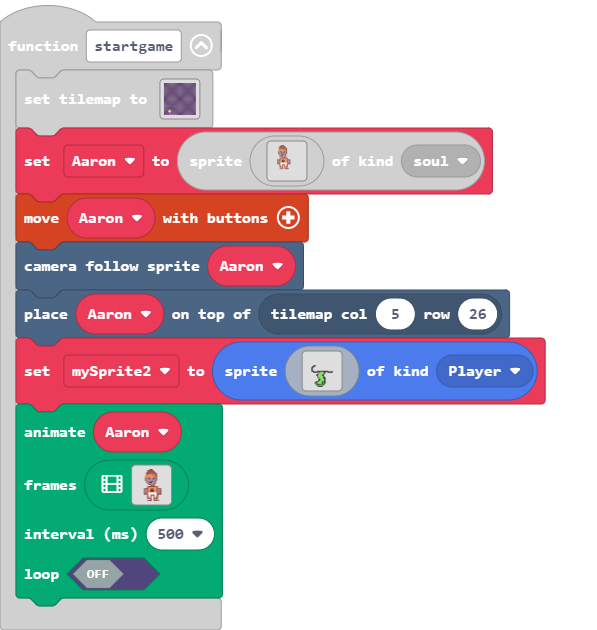
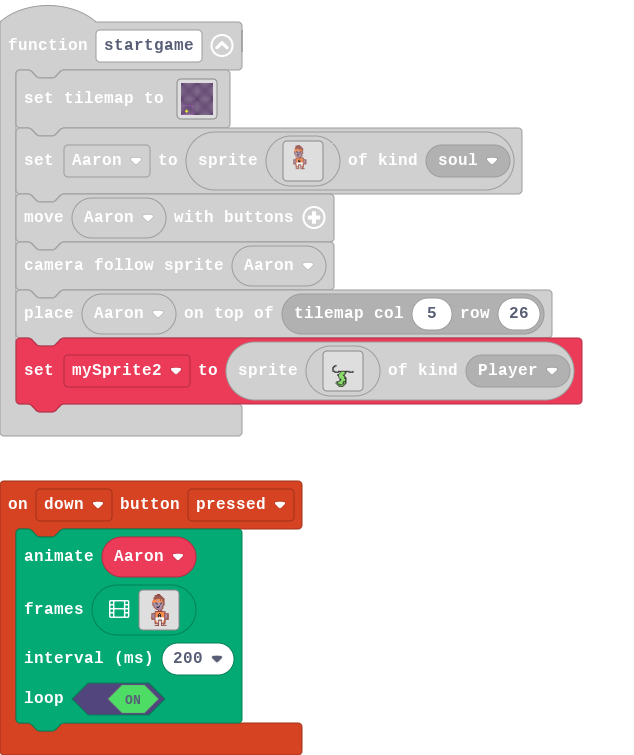
Update main.blocks, main.ts, images.g.jres, images.g.ts

diff --git a/main.ts b/main.ts
@@ -2,6 +2,138 @@ namespace SpriteKind {
     export const button = SpriteKind.create()
     export const soul = SpriteKind.create()
 }
+controller.down.onEvent(ControllerButtonEvent.Pressed, function () {
+    animation.runImageAnimation(
+    Aaron,
+    [img`
+        .............eee..............
+        ...........eeeeee.............
+        ...........eeeeeee............
+        ..........eeeeeeeee...........
+        ..........eeeeeeeeee..........
+        ..........4e4444e4ee..........
+        .........4444bb4e4ee..........
+        .........4444444444e..........
+        .........ebbfbbbbfbe..........
+        .........ebbbfbbfbbe..........
+        .........ebbbbbbbbbe..........
+        ..........ebbbbfbbe...........
+        ..........ebbffbbbe...........
+        ...........ebbbbbbe...........
+        ............eebbbe............
+        ..............ebee............
+        ...........eeeeeeeeee.........
+        ...........e44444444e.........
+        ........eeee444f4444eeee......
+        ........ebbe44f4f444ebbe......
+        ........ebbe44fff444ebbe......
+        ........ebbe44f4f444ebbe......
+        ........ebbe11111111ebbe......
+        ........eeee11111111eeee......
+        ...........e11eeee11e.........
+        ...........e41e..e14e.........
+        ...........e41e..e14e.........
+        ...........eeee..eeee.........
+        .............de..ede..........
+        ...........eeee..eeeee........
+        `,img`
+        .............eee..............
+        ...........eeeeee.............
+        ...........eeeeeee............
+        ..........eeeeeeeee...........
+        ..........eeeeeeeeee..........
+        ..........4e4444e4ee..........
+        .........4444bb4e4ee..........
+        .........4444444444e..........
+        .........ebbfbbbbfbe..........
+        .........ebbbfbbfbbe..........
+        .........ebbbbbbbbbe..........
+        ..........ebbbbfbbe...........
+        ..........ebbffbbbe...........
+        ...........ebbbbbbe...........
+        ............eebbbe............
+        ..............ebee............
+        ...........eeeeeeeeee.........
+        ...........e44444444e.........
+        ........eeee444f4444eeee......
+        ........ebbe44f4f444ebbe......
+        ........ebbe44fff444ebbe......
+        ........ebbe44f4f444eeee......
+        ........ebbe11111111e.........
+        ........eeee11111111e.........
+        ...........e11eeee11e.........
+        ...........e41e..e14e.........
+        ...........e41e..e14e.........
+        ...........eeee..eeee.........
+        .............de..ede..........
+        ...........eeee..eeeee........
+        `,img`
+        .............eee..............
+        ...........eeeeee.............
+        ...........eeeeeee............
+        ..........eeeeeeeee...........
+        ..........eeeeeeeeee..........
+        ..........4e4444e4ee..........
+        .........4444bb4e4ee..........
+        .........4444444444e..........
+        .........ebbfbbbbfbe..........
+        .........ebbbfbbfbbe..........
+        .........ebbbbbbbbbe..........
+        ..........ebbbbfbbe...........
+        ..........ebbffbbbe...........
+        ...........ebbbbbbe...........
+        ............eebbbe............
+        ..............ebee............
+        ...........eeeeeeeeee.........
+        ...........e44444444e.........
+        ........eeee444f4444eeee......
+        ........ebbe44f4f444ebbe......
+        ........ebbe44fff444ebbe......
+        ........ebbe44f4f444ebbe......
+        ........ebbe11111111ebbe......
+        ........eeee11111111eeee......
+        ...........e11eeee11e.........
+        ...........e41e..e14e.........
+        ...........e41e..e14e.........
+        ...........eeee..eeee.........
+        .............de..ede..........
+        ...........eeee..eeeee........
+        `,img`
+        .............eee..............
+        ...........eeeeee.............
+        ...........eeeeeee............
+        ..........eeeeeeeee...........
+        ..........eeeeeeeeee..........
+        ..........4e4444e4ee..........
+        .........4444bb4e4ee..........
+        .........4444444444e..........
+        .........ebbfbbbbfbe..........
+        .........ebbbfbbfbbe..........
+        .........ebbbbbbbbbe..........
+        ..........ebbbbfbbe...........
+        ..........ebbffbbbe...........
+        ...........ebbbbbbe...........
+        ............eebbbe............
+        ..............ebee............
+        ...........eeeeeeeeee.........
+        ...........e44444444e.........
+        ........eeee444f4444eeee......
+        ........ebbe44f4f444ebbe......
+        ........ebbe44fff444ebbe......
+        ........eeee44f4f444ebbe......
+        ...........e11111111ebbe......
+        ...........e11111111eeee......
+        ...........e11eeee11e.........
+        ...........e41e..e14e.........
+        ...........e41e..e14e.........
+        ...........eeee..eeee.........
+        .............de..ede..........
+        ...........eeee..eeeee........
+        `],
+    200,
+    true
+    )
+})
 function Level () {
     if (level == 0) {
         scene.setBackgroundImage(img`
@@ -380,105 +512,6 @@ function startgame () {
         ..............f77777f...................
         ...............fffff....................
         `, SpriteKind.Player)
-    animation.runImageAnimation(
-    Aaron,
-    [img`
-        .............eee..............
-        ...........eeeeee.............
-        ...........eeeeeee............
-        ..........eeeeeeeee...........
-        ..........eeeeeeeeee..........
-        ..........4e4444e4ee..........
-        .........4444bb4e4ee..........
-        .........4444444444e..........
-        .........ebbfbbbbfbe..........
-        .........ebbbfbbfbbe..........
-        .........ebbbbbbbbbe..........
-        ..........ebbbbfbbe...........
-        ..........ebbffbbbe...........
-        ...........ebbbbbbe...........
-        ............eebbbe............
-        ..............ebee............
-        ...........eeeeeeeeee.........
-        ...........e44444444e.........
-        ........eeee444f4444eeee......
-        ........ebbe44f4f444ebbe......
-        ........ebbe44fff444ebbe......
-        ........ebbe44f4f444ebbe......
-        ........ebbe11111111ebbe......
-        ........eeee11111111eeee......
-        ...........e11eeee11e.........
-        ...........e41e..e14e.........
-        ...........e41e..e14e.........
-        ...........eeee..eeee.........
-        .............de..ede..........
-        ...........eeee..eeeee........
-        `,img`
-        .............eee..............
-        ...........eeeeee.............
-        ...........eeeeeee............
-        ..........eeeeeeeee...........
-        ..........eeeeeeeeee..........
-        ..........4e4444e4ee..........
-        .........4444bb4e4ee..........
-        .........4444444444e..........
-        .........ebbfbbbbfbe..........
-        .........ebbbfbbfbbe..........
-        .........ebbbbbbbbbe..........
-        ..........ebbbbfbbe...........
-        ..........ebbffbbbe...........
-        ...........ebbbbbbe...........
-        ............eebbbe............
-        ..............ebee............
-        ...........eeeeeeeeee.........
-        ...........e44444444e.........
-        ........eeee444f4444eeee......
-        ........ebbe44f4f444ebbe......
-        ........ebbe44fff444ebbe......
-        ........eeee44f4f444ebbe......
-        ...........e11111111ebbe......
-        ...........e11111111eeee......
-        ...........e11eeee11e.........
-        ...........e41e..e14e.........
-        ...........e41e..e14e.........
-        ...........eeee..eeee.........
-        .............de..ede..........
-        ...........eeee..eeeee........
-        `,img`
-        .............eee..............
-        ...........eeeeee.............
-        ...........eeeeeee............
-        ..........eeeeeeeee...........
-        ..........eeeeeeeeee..........
-        ..........4e4444e4ee..........
-        .........4444bb4e4ee..........
-        .........4444444444e..........
-        .........ebbfbbbbfbe..........
-        .........ebbbfbbfbbe..........
-        .........ebbbbbbbbbe..........
-        ..........ebbbbfbbe...........
-        ..........ebbffbbbe...........
-        ...........ebbbbbbe...........
-        ............eebbbe............
-        ..............ebee............
-        ...........eeeeeeeeee.........
-        ...........e44444444e.........
-        ........eeee444f4444eeee......
-        ........ebbe44f4f444ebbe......
-        ........ebbe44fff444ebbe......
-        ........ebbe44f4f444eeee......
-        ........ebbe11111111e.........
-        ........eeee11111111e.........
-        ...........e11eeee11e.........
-        ...........e41e..e14e.........
-        ...........e41e..e14e.........
-        ...........eeee..eeee.........
-        .............de..ede..........
-        ...........eeee..eeeee........
-        `],
-    500,
-    false
-    )
 }
 sprites.onOverlap(SpriteKind.Player, SpriteKind.button, function (sprite, otherSprite) {
     let othersprite = false
@@ -488,9 +521,9 @@ sprites.onOverlap(SpriteKind.Player, SpriteKind.button, function (sprite, otherS
     }
 })
 let mySprite2: Sprite = null
-let Aaron: Sprite = null
 let cursor: Sprite = null
 let play: Sprite = null
+let Aaron: Sprite = null
 let level = 0
 level = 0
 Level()

diff --git a/images.g.ts b/images.g.ts
@@ -461,9 +461,9 @@ ffffffffffffffffffffffffffffffffffffffffffffffffffffffffffffffffffffffffffffffff
 ........eeee444f4444eeee......
 ........ebbe44f4f444ebbe......
 ........ebbe44fff444ebbe......
-........eeee44f4f444ebbe......
-...........e11111111ebbe......
-...........e11111111eeee......
+........ebbe44f4f444eeee......
+........ebbe11111111e.........
+........eeee11111111e.........
 ...........e11eeee11e.........
 ...........e41e..e14e.........
 ...........e41e..e14e.........
@@ -492,9 +492,40 @@ ffffffffffffffffffffffffffffffffffffffffffffffffffffffffffffffffffffffffffffffff
 ........eeee444f4444eeee......
 ........ebbe44f4f444ebbe......
 ........ebbe44fff444ebbe......
-........ebbe44f4f444eeee......
-........ebbe11111111e.........
-........eeee11111111e.........
+........ebbe44f4f444ebbe......
+........ebbe11111111ebbe......
+........eeee11111111eeee......
+...........e11eeee11e.........
+...........e41e..e14e.........
+...........e41e..e14e.........
+...........eeee..eeee.........
+.............de..ede..........
+...........eeee..eeeee........
+`, img`
+.............eee..............
+...........eeeeee.............
+...........eeeeeee............
+..........eeeeeeeee...........
+..........eeeeeeeeee..........
+..........4e4444e4ee..........
+.........4444bb4e4ee..........
+.........4444444444e..........
+.........ebbfbbbbfbe..........
+.........ebbbfbbfbbe..........
+.........ebbbbbbbbbe..........
+..........ebbbbfbbe...........
+..........ebbffbbbe...........
+...........ebbbbbbe...........
+............eebbbe............
+..............ebee............
+...........eeeeeeeeee.........
+...........e44444444e.........
+........eeee444f4444eeee......
+........ebbe44f4f444ebbe......
+........ebbe44fff444ebbe......
+........eeee44f4f444ebbe......
+...........e11111111ebbe......
+...........e11111111eeee......
 ...........e11eeee11e.........
 ...........e41e..e14e.........
 ...........e41e..e14e.........
